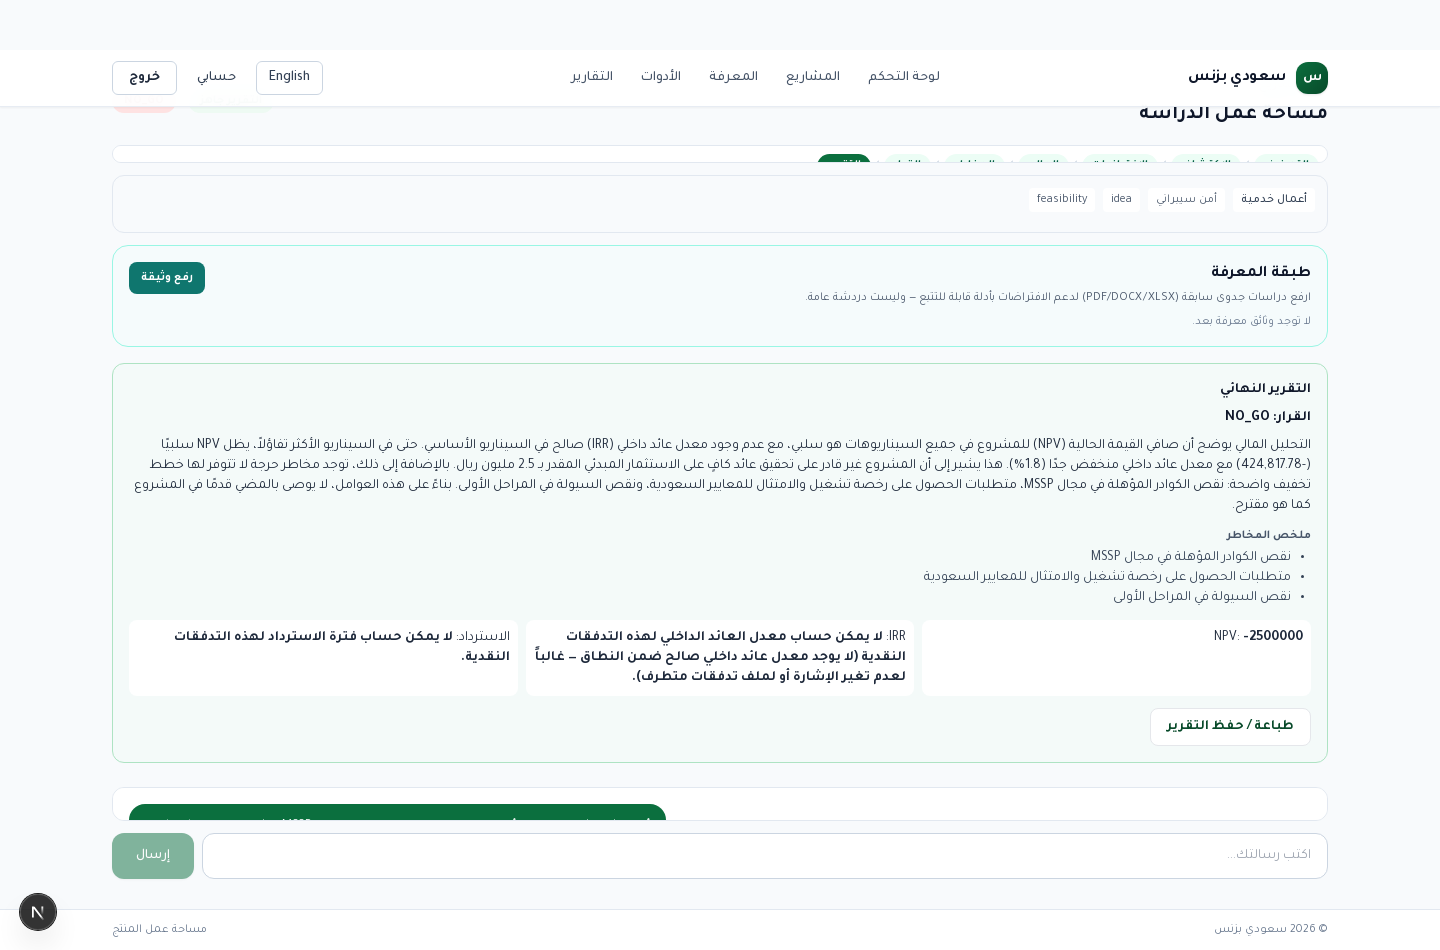
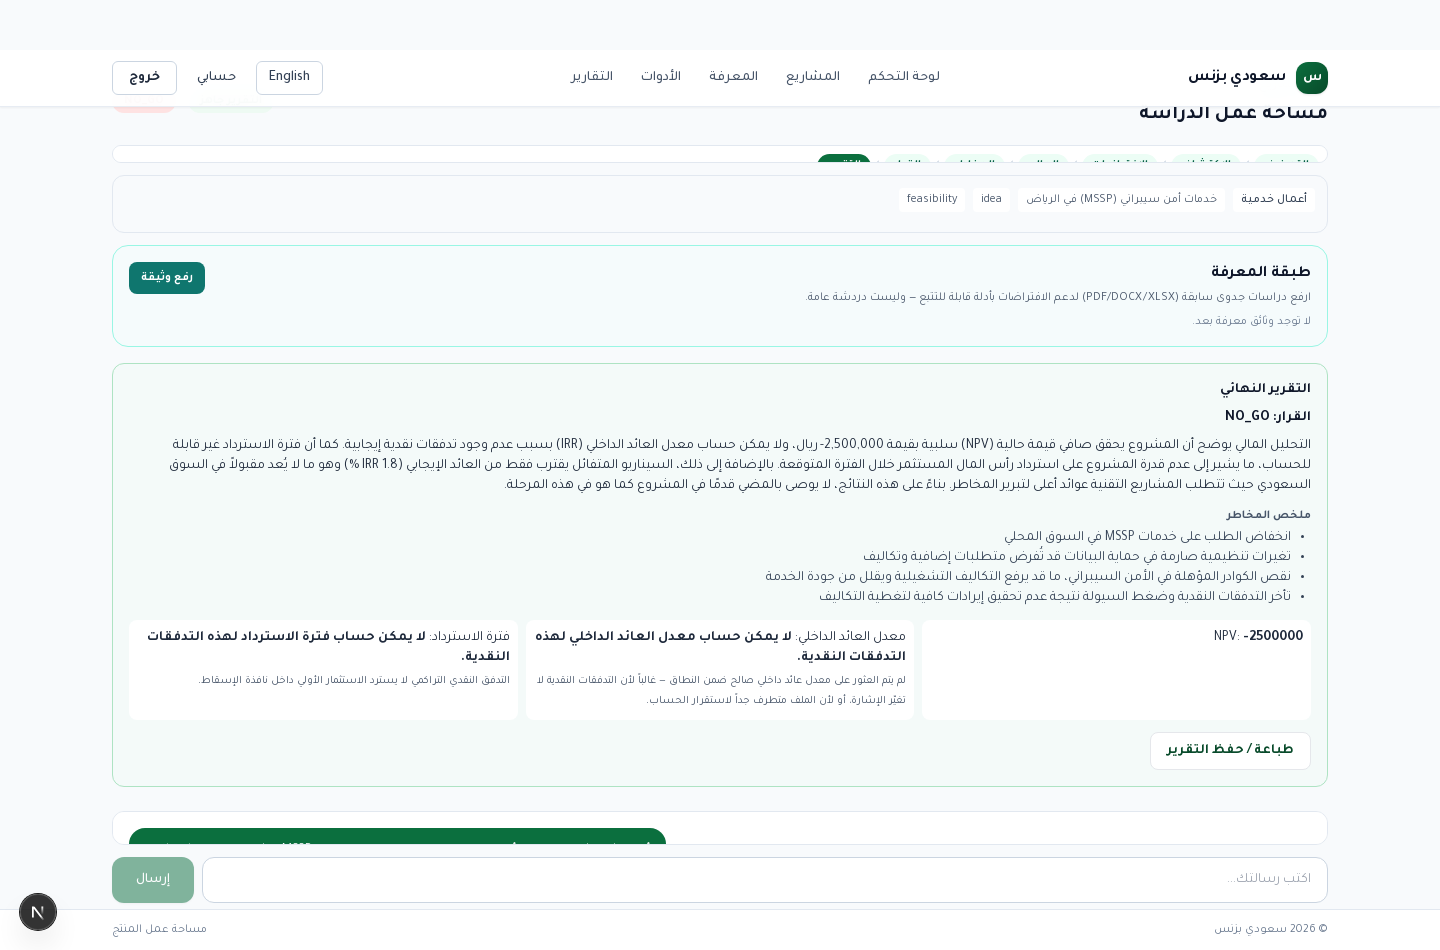
Record V3 Financial Trust and Owner Gate re-validation after null fix.
Document 5/5 financial trust PASS with user-safe IRR/payback states and
Owner Gate 19/19 PASS (step 10 rawBad=false) on the null-display tip.

diff --git a/docs/evidence/v3-owner-gate/OWNER_GATE_HONEST_SCORE.md b/docs/evidence/v3-owner-gate/OWNER_GATE_HONEST_SCORE.md
@@ -2,28 +2,31 @@
 
 **Result: 19/19 PASS**
 
-Email: `owner.v3.1789223185063@example.com`
-Project: `431`
-Study: `http://127.0.0.1:3000/projects/431/studies/study_43c4d69ddbe7/workspace`
+Candidate tip: `dfe7bfabb936be1854a45d253fd6c5a3a0b2e615`
+Raw null financial metrics: none (step 10 rawBad=false)
+
+Email: `owner.v3.1789224768744@example.com`
+Project: `432`
+Study: `http://127.0.0.1:3000/projects/432/studies/study_0afa56e77c76/workspace`
 
 | Step | Result | Notes |
 |------|--------|-------|
 | 1 | PASS | home loaded |
-| 2 | PASS | http://127.0.0.1:3000/projects owner.v3.1789223185063@example.com |
+| 2 | PASS | http://127.0.0.1:3000/projects owner.v3.1789224768744@example.com |
 | 3 | PASS | http://127.0.0.1:3000/dashboard |
-| 4 | PASS | projectId=431 url=http://127.0.0.1:3000/projects/431 |
+| 4 | PASS | projectId=432 url=http://127.0.0.1:3000/projects/432 |
 | 5 | PASS | idea visible |
-| 6 | PASS | http://127.0.0.1:3000/projects/431/studies/new/workspace |
-| 7 | PASS | rawId=false url=http://127.0.0.1:3000/projects/431/studies/study_43c4d69ddbe7/workspace |
-| 8 | PASS | http://127.0.0.1:3000/projects/431/studies/study_43c4d69ddbe7/workspace |
+| 6 | PASS | http://127.0.0.1:3000/projects/432/studies/new/workspace |
+| 7 | PASS | rawId=false url=http://127.0.0.1:3000/projects/432/studies/study_0afa56e77c76/workspace |
+| 8 | PASS | http://127.0.0.1:3000/projects/432/studies/study_0afa56e77c76/workspace |
 | 9 | PASS | assumptions panel=1 |
-| 10 | PASS | onTools=false hasFin=true rawBad=false url=http://127.0.0.1:3000/projects/431/studies/study_43c4d69ddbe7/workspace |
-| 11 | PASS | http://127.0.0.1:3000/projects/431/studies/study_43c4d69ddbe7/workspace |
-| 12 | PASS | http://127.0.0.1:3000/projects/431/studies/study_43c4d69ddbe7/workspace |
-| 13 | PASS | http://127.0.0.1:3000/projects/431/studies/study_43c4d69ddbe7/workspace |
-| 14 | PASS | http://127.0.0.1:3000/projects/431/studies/study_43c4d69ddbe7/workspace |
+| 10 | PASS | onTools=false hasFin=true rawBad=false url=http://127.0.0.1:3000/projects/432/studies/study_0afa56e77c76/workspace |
+| 11 | PASS | http://127.0.0.1:3000/projects/432/studies/study_0afa56e77c76/workspace |
+| 12 | PASS | http://127.0.0.1:3000/projects/432/studies/study_0afa56e77c76/workspace |
+| 13 | PASS | http://127.0.0.1:3000/projects/432/studies/study_0afa56e77c76/workspace |
+| 14 | PASS | http://127.0.0.1:3000/projects/432/studies/study_0afa56e77c76/workspace |
 | 15 | PASS | http://127.0.0.1:3000/login |
 | 16 | PASS | http://127.0.0.1:3000/dashboard |
 | 17 | PASS | cards=1 |
-| 18 | PASS | http://127.0.0.1:3000/projects/431/studies/study_43c4d69ddbe7/workspace |
+| 18 | PASS | http://127.0.0.1:3000/projects/432/studies/study_0afa56e77c76/workspace |
 | 19 | PASS | markers present |

diff --git a/docs/evidence/v3-financial-proof/FIVE_SCENARIO_FINANCIAL_TRUST.md b/docs/evidence/v3-financial-proof/FIVE_SCENARIO_FINANCIAL_TRUST.md
@@ -1,0 +1,47 @@
+# V3 Financial Trust Re-validation
+
+Aggregate: **PASS** (5/5)
+
+Requirement: never expose raw `Payback: null` / `IRR: null` to end users.
+
+## Residential — **PASS**
+- NPV hand `-39208109.9` vs engine `-39208109.9` → PASS
+- IRR display: `3.8%` (raw=0.0376)
+- Payback display: `39.7 months` (years=3.31, available=True)
+- No raw null: `True`
+- Persistence display fields: `True`
+- Chat: Financial analysis complete. Review the results panel for details (NPV: -39208109.9, IRR: 3.8%, Payback: 39.7 months).
+
+## Data Center — **PASS**
+- NPV hand `-168689958.29` vs engine `-168689958.29` → PASS
+- IRR display: `-14.5%` (raw=-0.1453)
+- Payback display: `Payback period cannot be calculated for these cash flows.` (years=None, available=False)
+- No raw null: `True`
+- Persistence display fields: `True`
+- Warnings visible: ['CAPEX looks unusually low for a 20 MW data center (~SAR 1,250,000/MW). Expected range about SAR 160,000,000–400,000,000.']
+- Soft CAPEX warning PASS=True
+- Chat: Financial analysis complete. Review the results panel for details (NPV: -168689958.29, IRR: -14.5%, Payback: Payback period cannot be calculated for these cash flows.).
+
+## Cybersecurity Services — **PASS**
+- NPV hand `19556674.79` vs engine `19556674.79` → PASS
+- IRR display: `382.4%` (raw=3.8243)
+- Payback display: `3.2 months` (years=0.27, available=True)
+- No raw null: `True`
+- Persistence display fields: `True`
+- Chat: Financial analysis complete. Review the results panel for details (NPV: 19556674.79, IRR: 382.4%, Payback: 3.2 months).
+
+## SaaS — **PASS**
+- NPV hand `2649859.92` vs engine `2649859.92` → PASS
+- IRR display: `86.6%` (raw=0.8664)
+- Payback display: `14.2 months` (years=1.18, available=True)
+- No raw null: `True`
+- Persistence display fields: `True`
+- Chat: Financial analysis complete. Review the results panel for details (NPV: 2649859.92, IRR: 86.6%, Payback: 14.2 months).
+
+## Uber Mobility — **PASS**
+- NPV hand `3971632.65` vs engine `3971632.65` → PASS
+- IRR display: `25.3%` (raw=0.2529)
+- Payback display: `25.6 months` (years=2.13, available=True)
+- No raw null: `True`
+- Persistence display fields: `True`
+- Chat: Financial analysis complete. Review the results panel for details (NPV: 3971632.65, IRR: 25.3%, Payback: 25.6 months).

diff --git a/docs/releases/V3_RELEASE_ACCEPTANCE.md b/docs/releases/V3_RELEASE_ACCEPTANCE.md
@@ -3,7 +3,7 @@
 **Release candidate:** v3.0.0
 **Branch:** release/v3.0.0
 **Baseline SHA (origin/main):** `fa9ecbc0d7a7f1c5fa6ac610e8d775e83b22c6e4`
-**V3 candidate tip:** `f31af34bf597bb03958d504057c03e594b7ebebd`
+**V3 candidate tip:** `dfe7bfabb936be1854a45d253fd6c5a3a0b2e615`
 **Date (UTC):** 2026-09-12
 **PR:** https://github.com/majaber1/saudi-business/pull/36
 **PR #33 merge ancestor:** `1f1a3057b18ec4a4e972d0cb7178688dfef1b3ea`
@@ -45,6 +45,22 @@ Clean, testable, financially trustworthy production release. No new product feat
 - Raw archetype ID display
 - Standalone financial as canonical path
 
+## Financial Trust re-validation (null-display fix)
+
+**Result: PASS (5/5)** on tip `dfe7bfabb936be1854a45d253fd6c5a3a0b2e615`
+
+Evidence:
+- docs/evidence/v3-financial-proof/FIVE_SCENARIO_FINANCIAL_TRUST.md
+- docs/evidence/v3-financial-proof/FIVE_SCENARIO_FINANCIAL_TRUST.json
+
+Verified for Residential, Data Center, Cybersecurity Services, SaaS, Uber Mobility:
+- no raw `Payback: null` / `IRR: null` in user-facing display or chat summary
+- correct NPV/IRR/payback calculations vs hand check
+- Data Center soft CAPEX warning visible
+- display fields survive persistence round-trip
+
+Owner Gate step 10 `rawBad=false` after product fix (not by weakening the gate assertion).
+
 ## Five-scenario mathematical proof
 
 Evidence: docs/evidence/v3-financial-proof/FIVE_SCENARIO_MATH_PROOF.md
@@ -64,7 +80,7 @@ Scenario proofs: 5/5 PASS
 | ID | Finding | Status |
 |----|---------|--------|
 | P0 | Incorrect real-estate NPV | FIXED |
-| P1 | Raw null IRR/payback in UI | FIXED |
+| P1 | Raw null IRR/payback in UI | FIXED (structured display + reason + missing condition; revalidated) |
 | P1 | Silent AI JSON fallback | PARTIALLY_FIXED |
 | P1 | Unrealistic input without warning | FIXED |
 | P1 | Services ignore billing/utilization/resources | FIXED |
@@ -74,7 +90,7 @@ Scenario proofs: 5/5 PASS
 
 ## Owner Gate (19/19)
 
-**Result: 19/19 PASS** on local V3 candidate (`12d40971ce1c126ce22607cf8e2ea2d3b718b574`)
+**Result: 19/19 PASS** on local V3 candidate (`dfe7bfabb936be1854a45d253fd6c5a3a0b2e615`)
 
 Normal UI journey only. Evidence: docs/evidence/v3-owner-gate/
 
